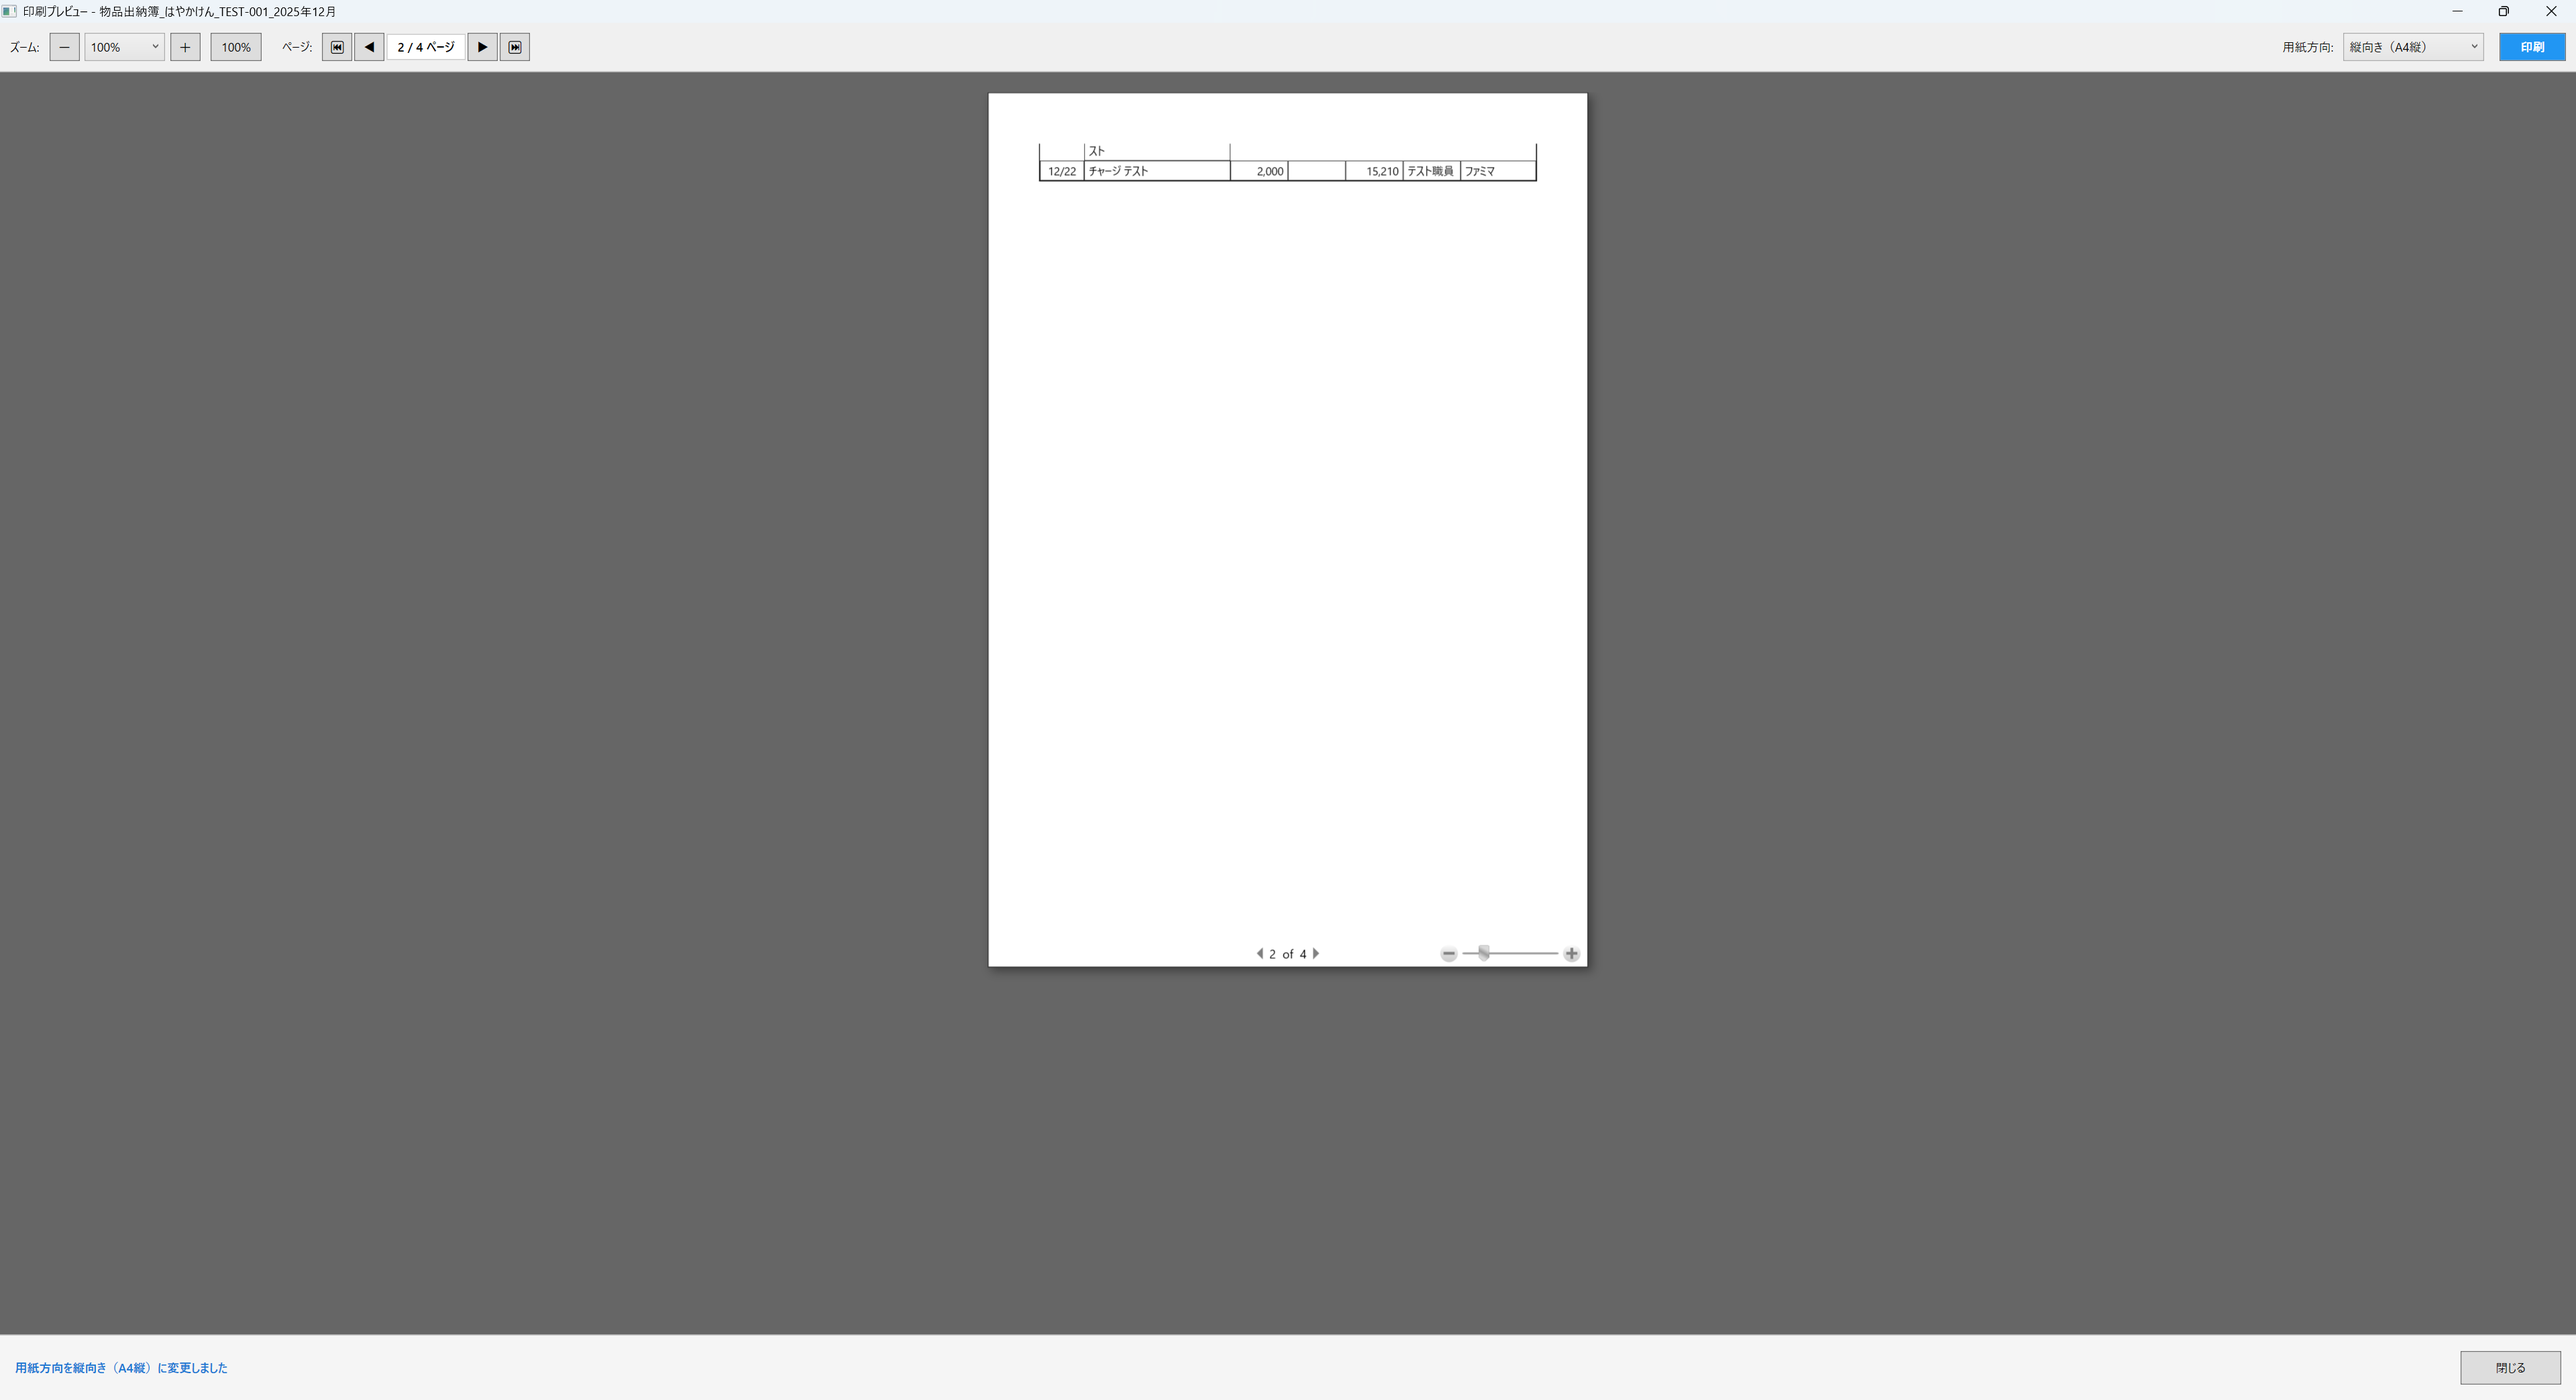
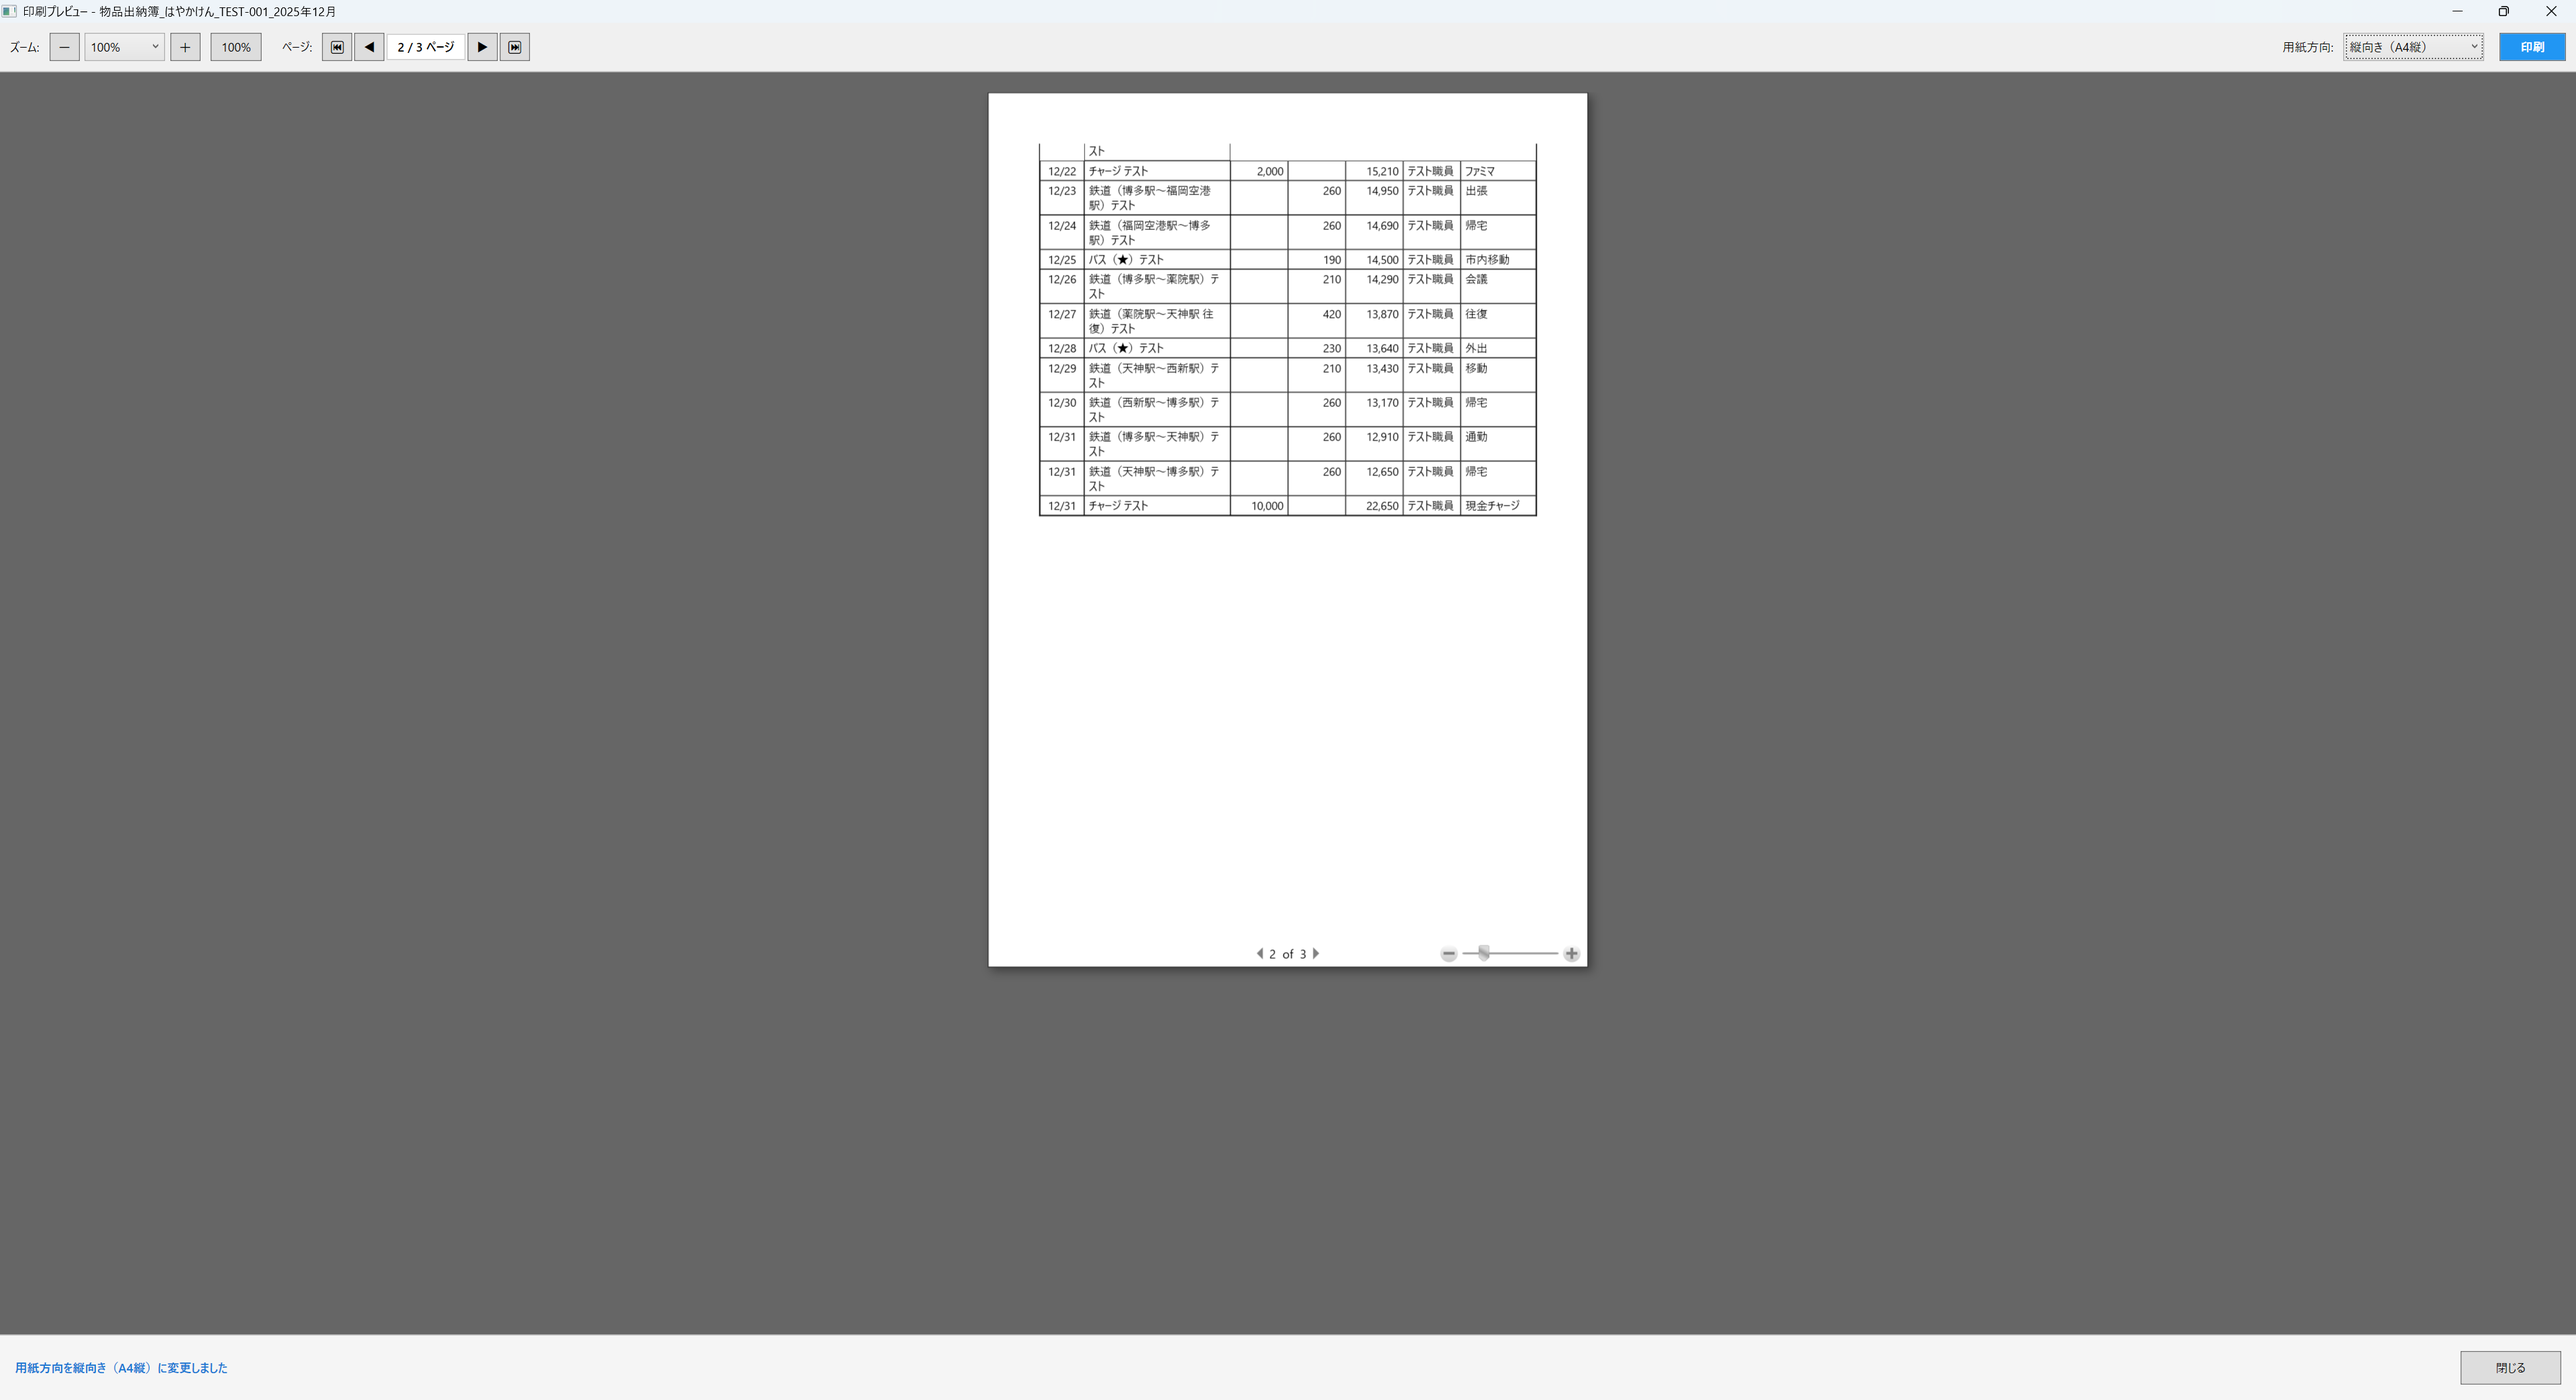
fix: 高さ定数を大きめに調整してFlowDocument自動分割を防止

Changed region(s): [[0.4062, 0.1245, 0.5938, 0.3736]]

diff --git a/ICCardManager/src/ICCardManager/Services/PrintService.cs b/ICCardManager/src/ICCardManager/Services/PrintService.cs
@@ -326,14 +326,14 @@ public class PrintService
         return combinedDoc;
     }
 
-    // ページレイアウト定数（実測に基づく値）
+    // ページレイアウト定数（FlowDocument自動分割を防ぐため大きめの値）
     private const double PagePaddingSize = 50;        // ページ余白
-    private const double HeaderBlockHeight = 95;      // タイトル(18pt+margin20) + ヘッダーテーブル(2行+margin)
-    private const double TableHeaderHeight = 22;      // テーブル列ヘッダーの高さ
-    private const double SingleLineRowHeight = 18;    // 1行データの高さ
-    private const double DoubleLineRowHeight = 34;    // 2行データの高さ
-    private const double SummaryRowHeight = 20;       // 合計行の高さ
-    private const double SafetyMargin = 10;           // 安全マージン
+    private const double HeaderBlockHeight = 130;     // タイトル + ヘッダーテーブル + マージン
+    private const double TableHeaderHeight = 30;      // テーブル列ヘッダーの高さ
+    private const double SingleLineRowHeight = 24;    // 1行データの高さ
+    private const double DoubleLineRowHeight = 46;    // 2行データの高さ
+    private const double SummaryRowHeight = 26;       // 合計行の高さ
+    private const double SafetyMargin = 40;           // 安全マージン（大きめ）
 
     // 摘要欄の1行あたり文字数（フォントサイズ11pt、列幅から計算）
     private const int SummaryCharsPerLineLandscape = 24;  // 横向き時
